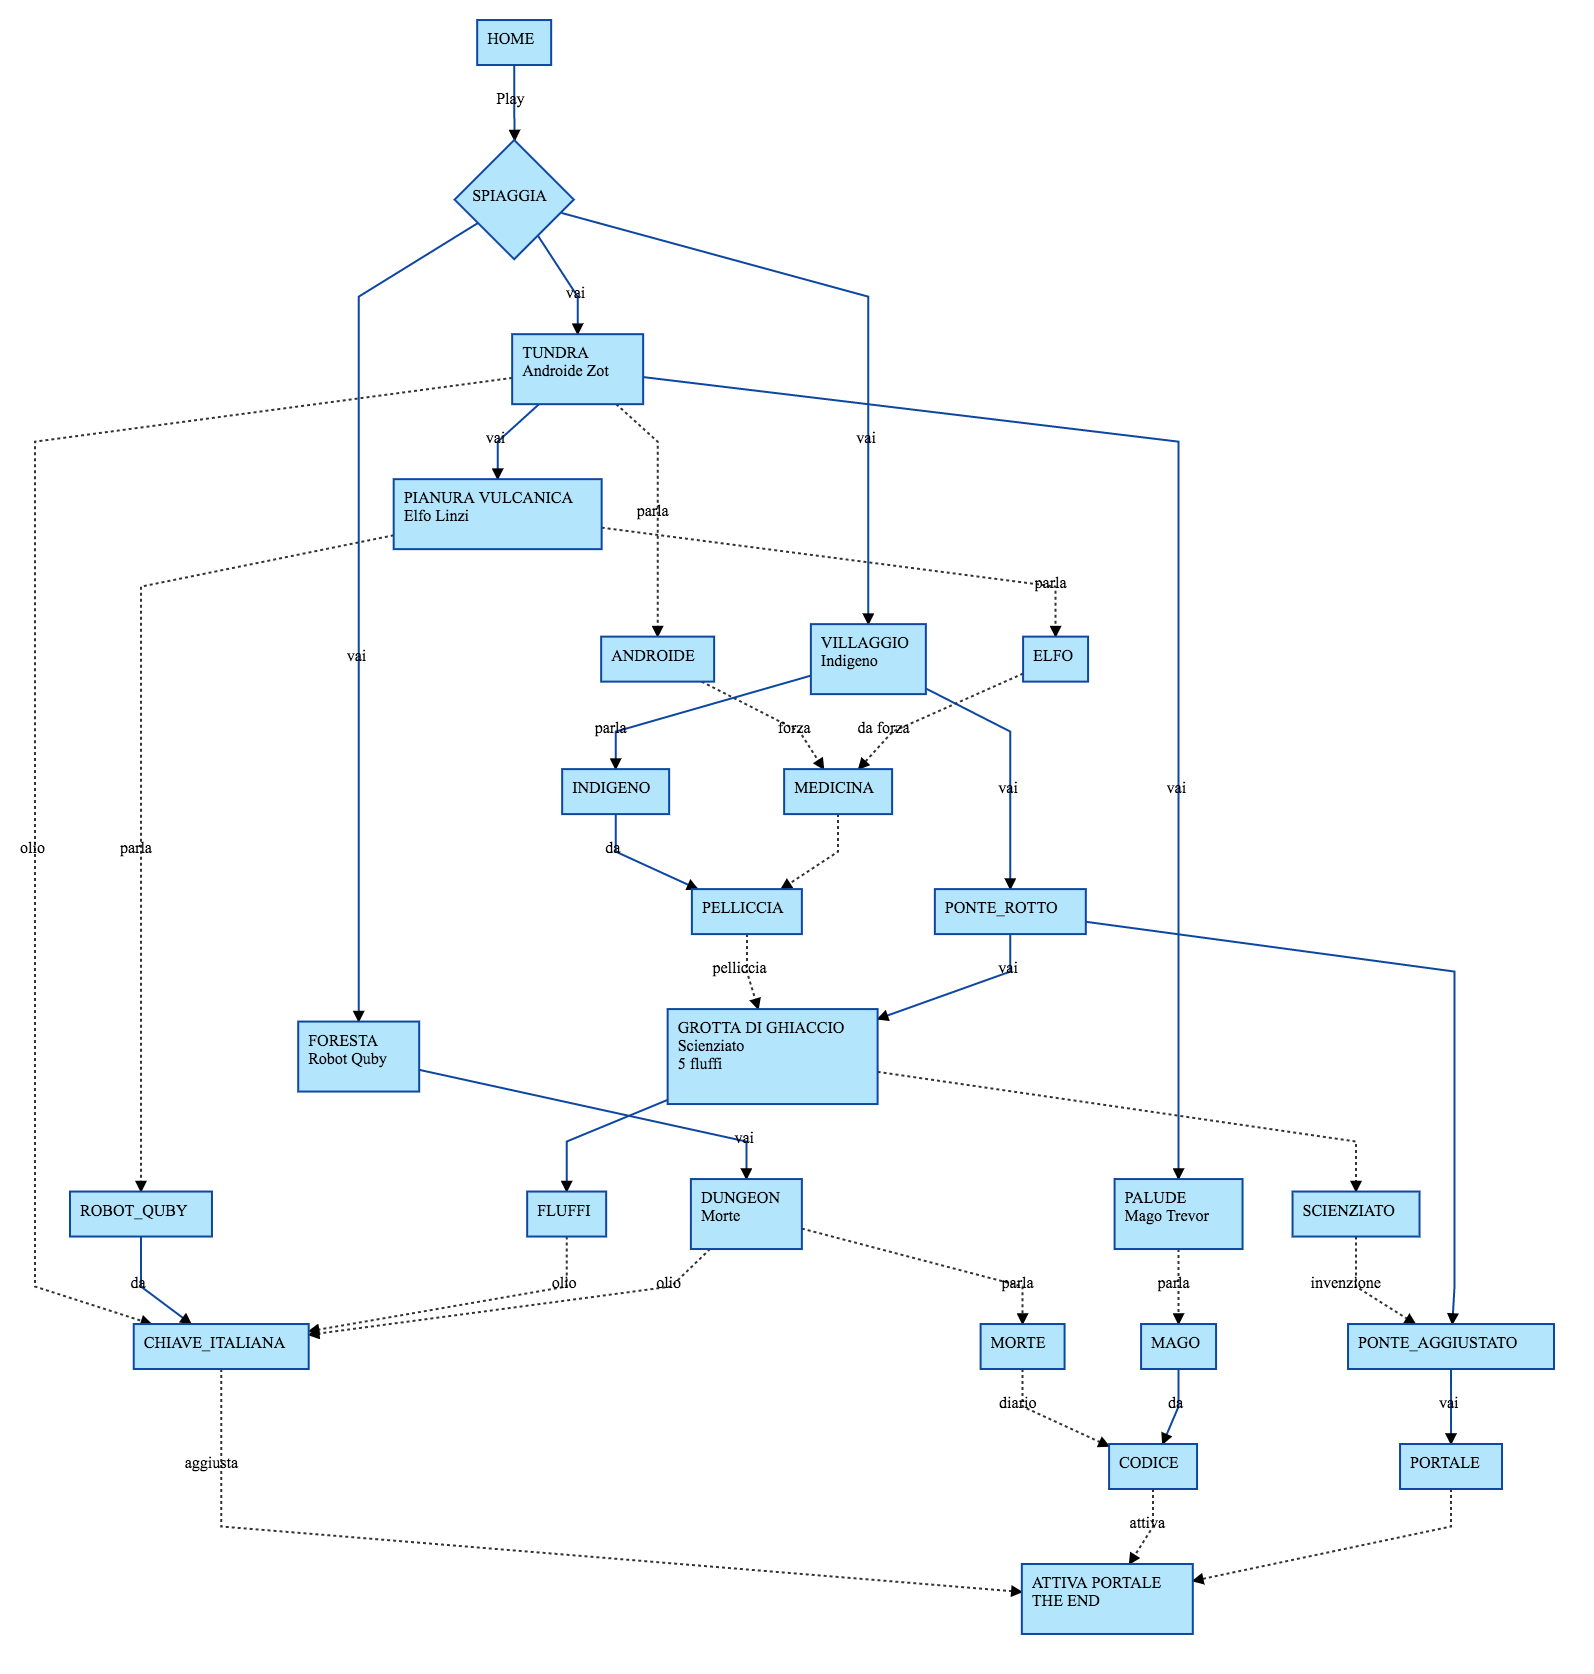
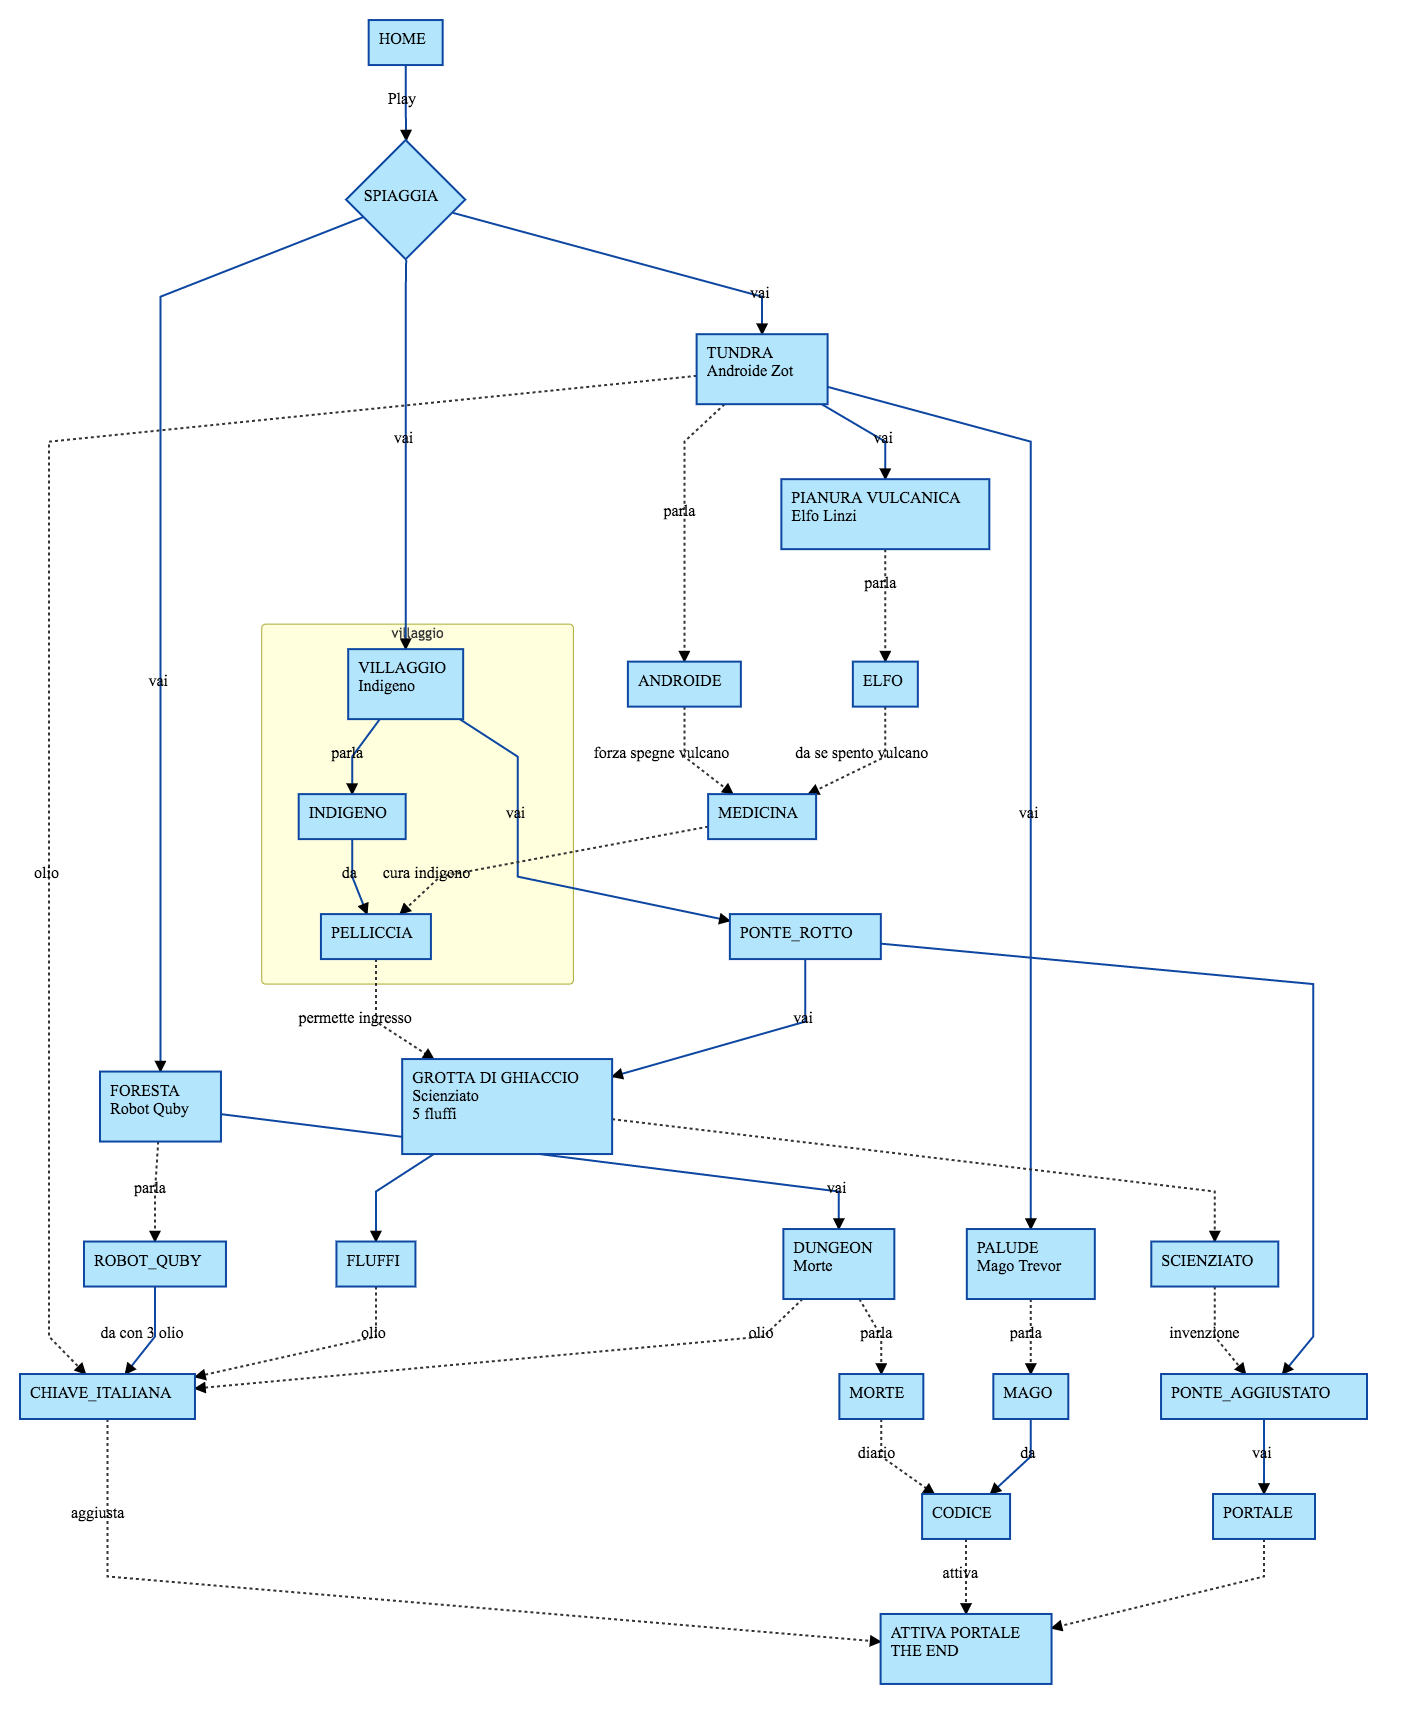
fixed flow

diff --git a/docs/7F_Flow_mermaid.md b/docs/7F_Flow_mermaid.md
@@ -22,29 +22,32 @@ SPIAGGIA --> |vai| TUNDRA
 SPIAGGIA --> |vai| FORESTA
 SPIAGGIA --> |vai| VILLAGGIO
 
-TUNDRA --> |vai| PIANURA
-TUNDRA --> |vai| PALUDE
 TUNDRA -.-> |parla| ANDROIDE
-ANDROIDE -.-> |forza| MEDICINA
+ANDROIDE -.-> |forza spegne vulcano| MEDICINA
 TUNDRA  -.-> |olio| CHIAVE_ITALIANA
 
+TUNDRA --> |vai| PIANURA
+TUNDRA --> |vai| PALUDE
+
+subgraph villaggio
 VILLAGGIO --> |parla| INDIGENO
-VILLAGGIO --> |vai| PONTE_ROTTO
-PELLICCIA -.-> |pelliccia| GROTTA
 INDIGENO --> |da| PELLICCIA
+end
+
+VILLAGGIO --> |vai| PONTE_ROTTO
+PELLICCIA -.-> |permette ingresso| GROTTA
 
 PIANURA  -.-> |parla| ELFO
-PIANURA  -.-> |parla| ROBOT_QUBY
-ELFO  -.-> |da forza| MEDICINA
-MEDICINA -.-> PELLICCIA
+ELFO  -.-> |da se spento vulcano| MEDICINA
+MEDICINA -.-> |cura indigeno| PELLICCIA
 FORESTA  --> |vai| DUNGEON
-ROBOT_QUBY --> |da| CHIAVE_ITALIANA
+FORESTA  -.-> |parla| ROBOT_QUBY
+ROBOT_QUBY --> |da con 3 olio| CHIAVE_ITALIANA
 
 GROTTA -.-> SCIENZIATO
 GROTTA --> FLUFFI
 FLUFFI  -.-> |olio| CHIAVE_ITALIANA
 SCIENZIATO -.-> |invenzione| PONTE_AGGIUSTATO
-
 
 DUNGEON  -.-> |parla| MORTE
 MORTE  -.-> |diario| CODICE
